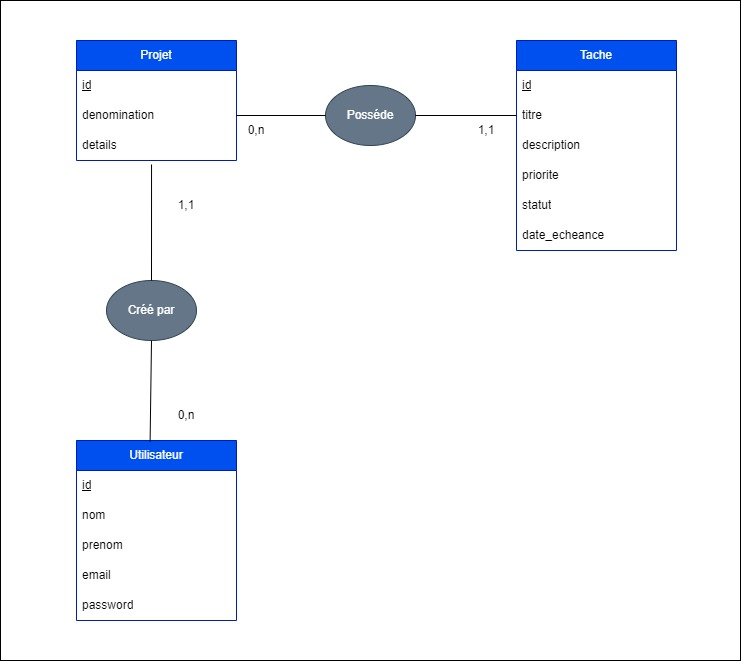
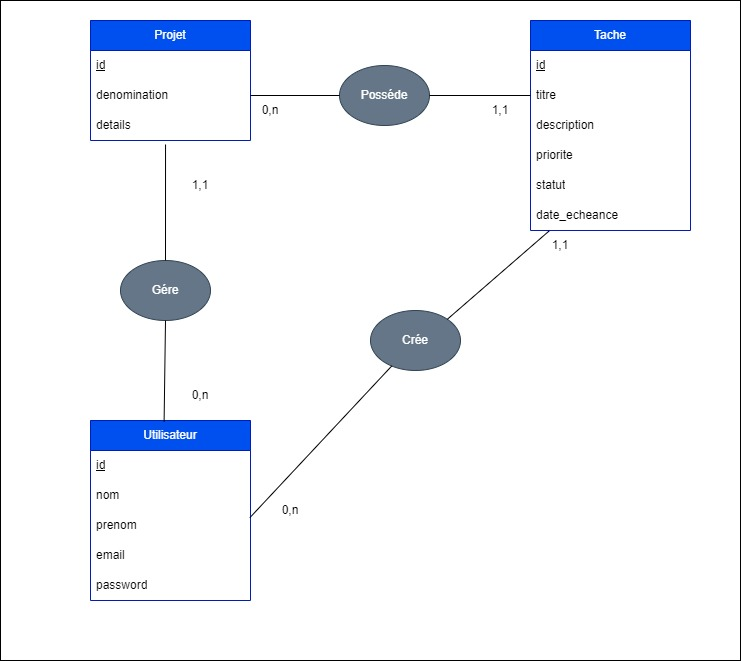
docs: modify MCD and MLD

diff --git a/MLD.md b/MLD.md
@@ -2,4 +2,4 @@
 
 **Projet** (_id_, denomination, details, #utilisateur_id)  
 **Utilisateur** (_id_, nom, prenom, email, password)  
-**Tache** (_id_, titre, description, priorite, statut, date_echeance, #projet_id)
+**Tache** (_id_, titre, description, priorite, statut, date_echeance, #projet_id, #utilisateur_id)
